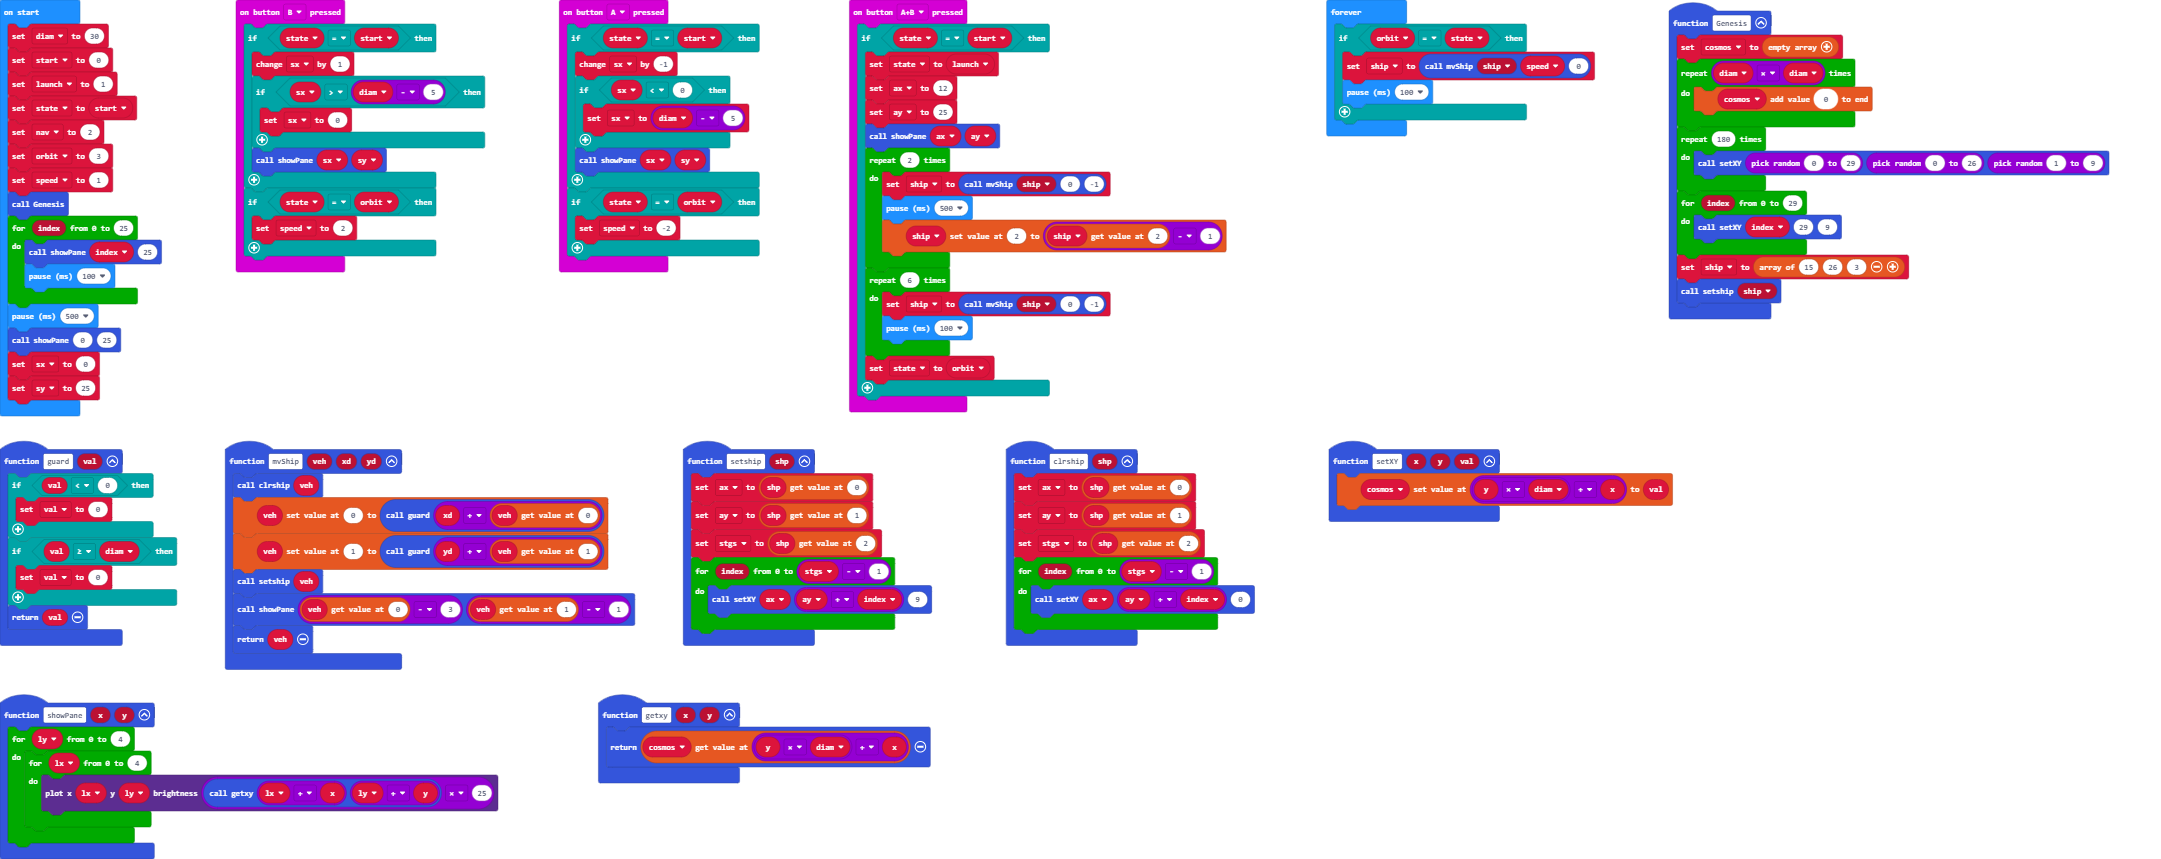
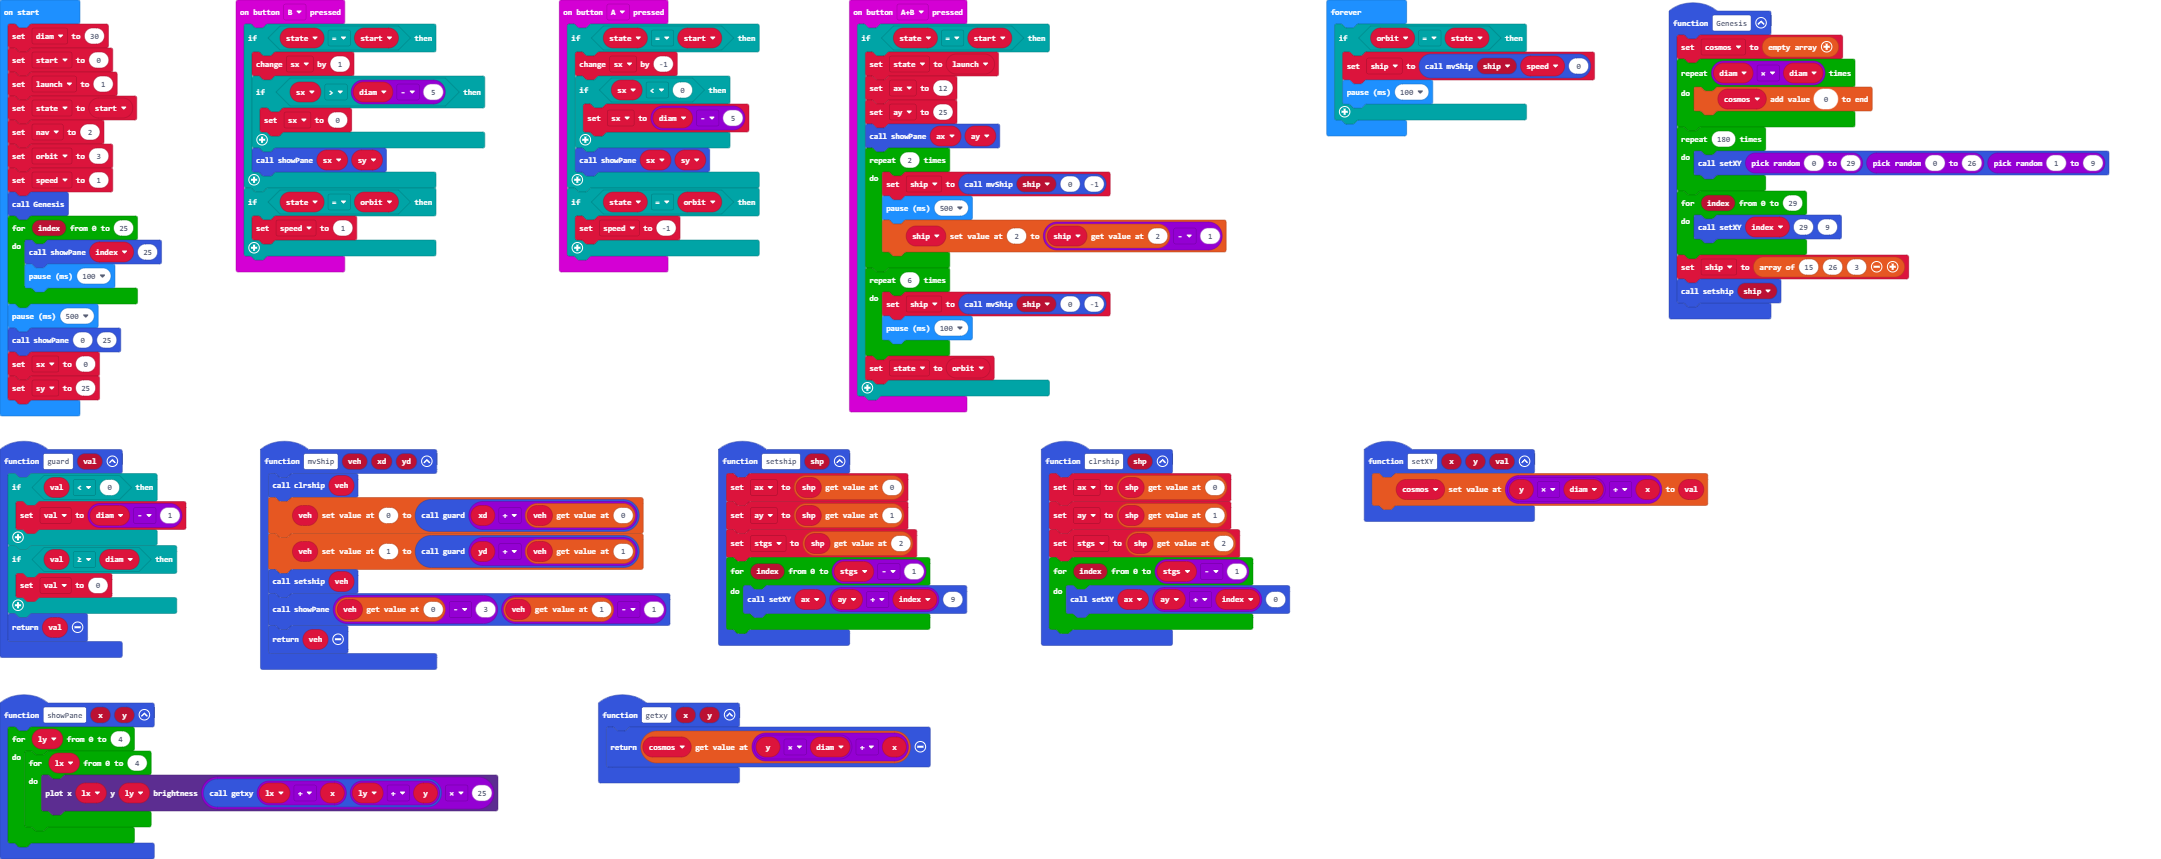
Update main.blocks, main.ts

Changed region(s): [[0.0, 0.5146, 0.8061, 0.787], [0.186, 0.7567, 0.217, 0.787]]

diff --git a/main.ts b/main.ts
@@ -22,7 +22,7 @@ input.onButtonPressed(Button.A, function () {
         showPane(sx, sy)
     }
     if (state == orbit) {
-        speed = -2
+        speed = -1
     }
 })
 function clrship (shp: any[]) {
@@ -35,7 +35,7 @@ function clrship (shp: any[]) {
 }
 function guard (val: number) {
     if (val < 0) {
-        val = 0
+        val = diam - 1
     }
     if (val >= diam) {
         val = 0
@@ -69,7 +69,7 @@ input.onButtonPressed(Button.B, function () {
         showPane(sx, sy)
     }
     if (state == orbit) {
-        speed = 2
+        speed = 1
     }
 })
 function setXY (x: number, y: number, val: number) {
